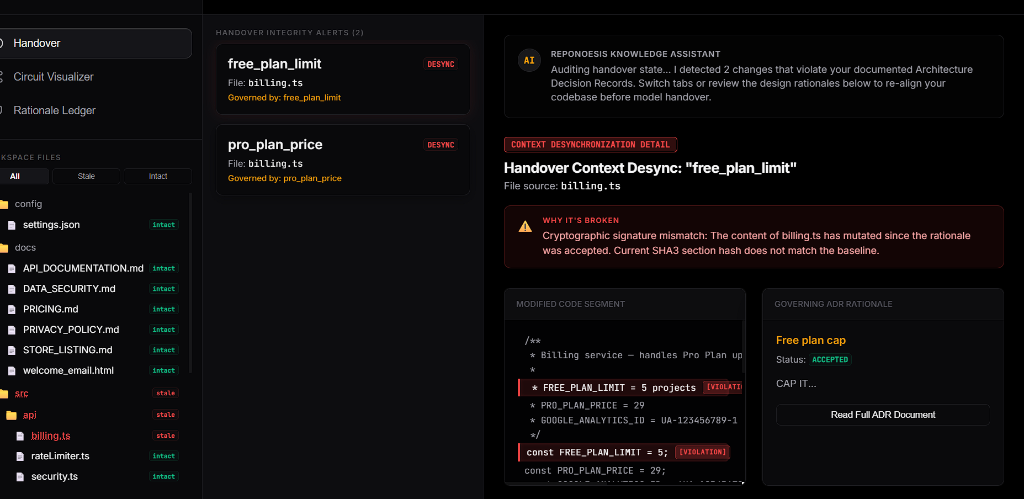
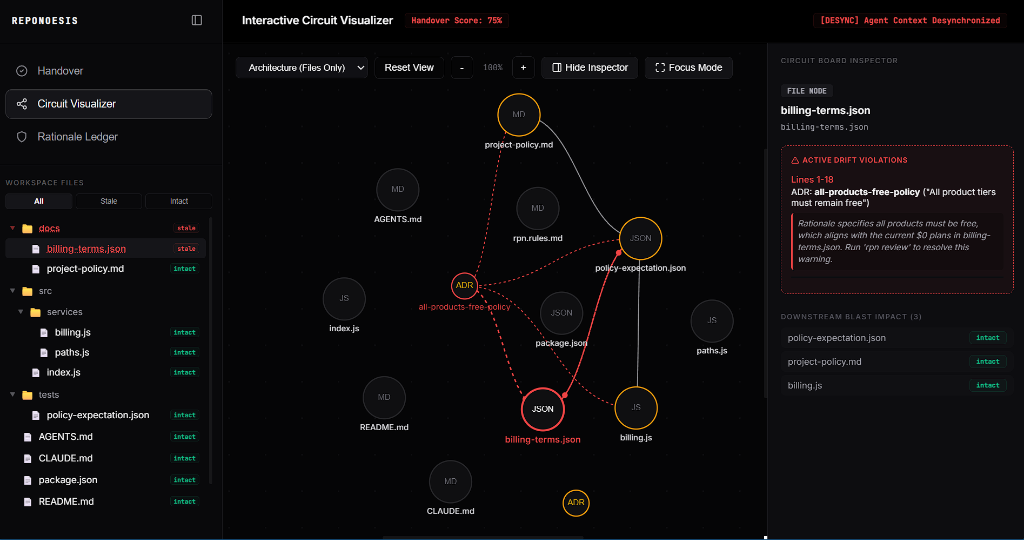
docs: replace placeholder screenshots with correct UI run images

diff --git a/README.md b/README.md
@@ -35,17 +35,17 @@ This is not a bug. It's a structural gap — no tool tracks semantic dependencie
 
 ## Screenshots
 
-### 1. Visual HUD Circuit Board (`rpn ui`)
-Every file is rendered as an SOIC package on a dark circuit grid, displaying semantic connections as PCB traces.
-![Visual HUD Circuit Board](assets/visualizer.png)
+### 1. Handover Integrity Center (`rpn status` / `rpn review`)
+View the integrity dashboard, active context desynchronization alerts, code diff mutations, and governing ADR rationale details.
+![Handover Integrity Center](assets/dashboard.png)
 
-### 2. Handover Sandbox
-Test URL imports and visualize dependencies between codebases and files interactively.
-![Handover Sandbox](assets/sandbox.png)
+### 2. Interactive Circuit Visualizer (`rpn ui`)
+Every file and ADR is rendered as a package on a dark PCB board grid, displaying semantic concept connections and active drift violations as glowing trace lines.
+![Interactive Circuit Visualizer](assets/visualizer.png)
 
-### 3. Active Contradiction Dashboard (`rpn status`)
-View the summary of valid chains, broken chains, and active logic contradictions before committing.
-![Active Contradiction Dashboard](assets/dashboard.png)
+### 3. Rationale Ledger (ADR Manager)
+Browse the list of active Architectural Decision Records (ADRs), check their status, and audit governed files with agent-verified drift insights.
+![Rationale Ledger](assets/ledger.png)
 
 ---
 
